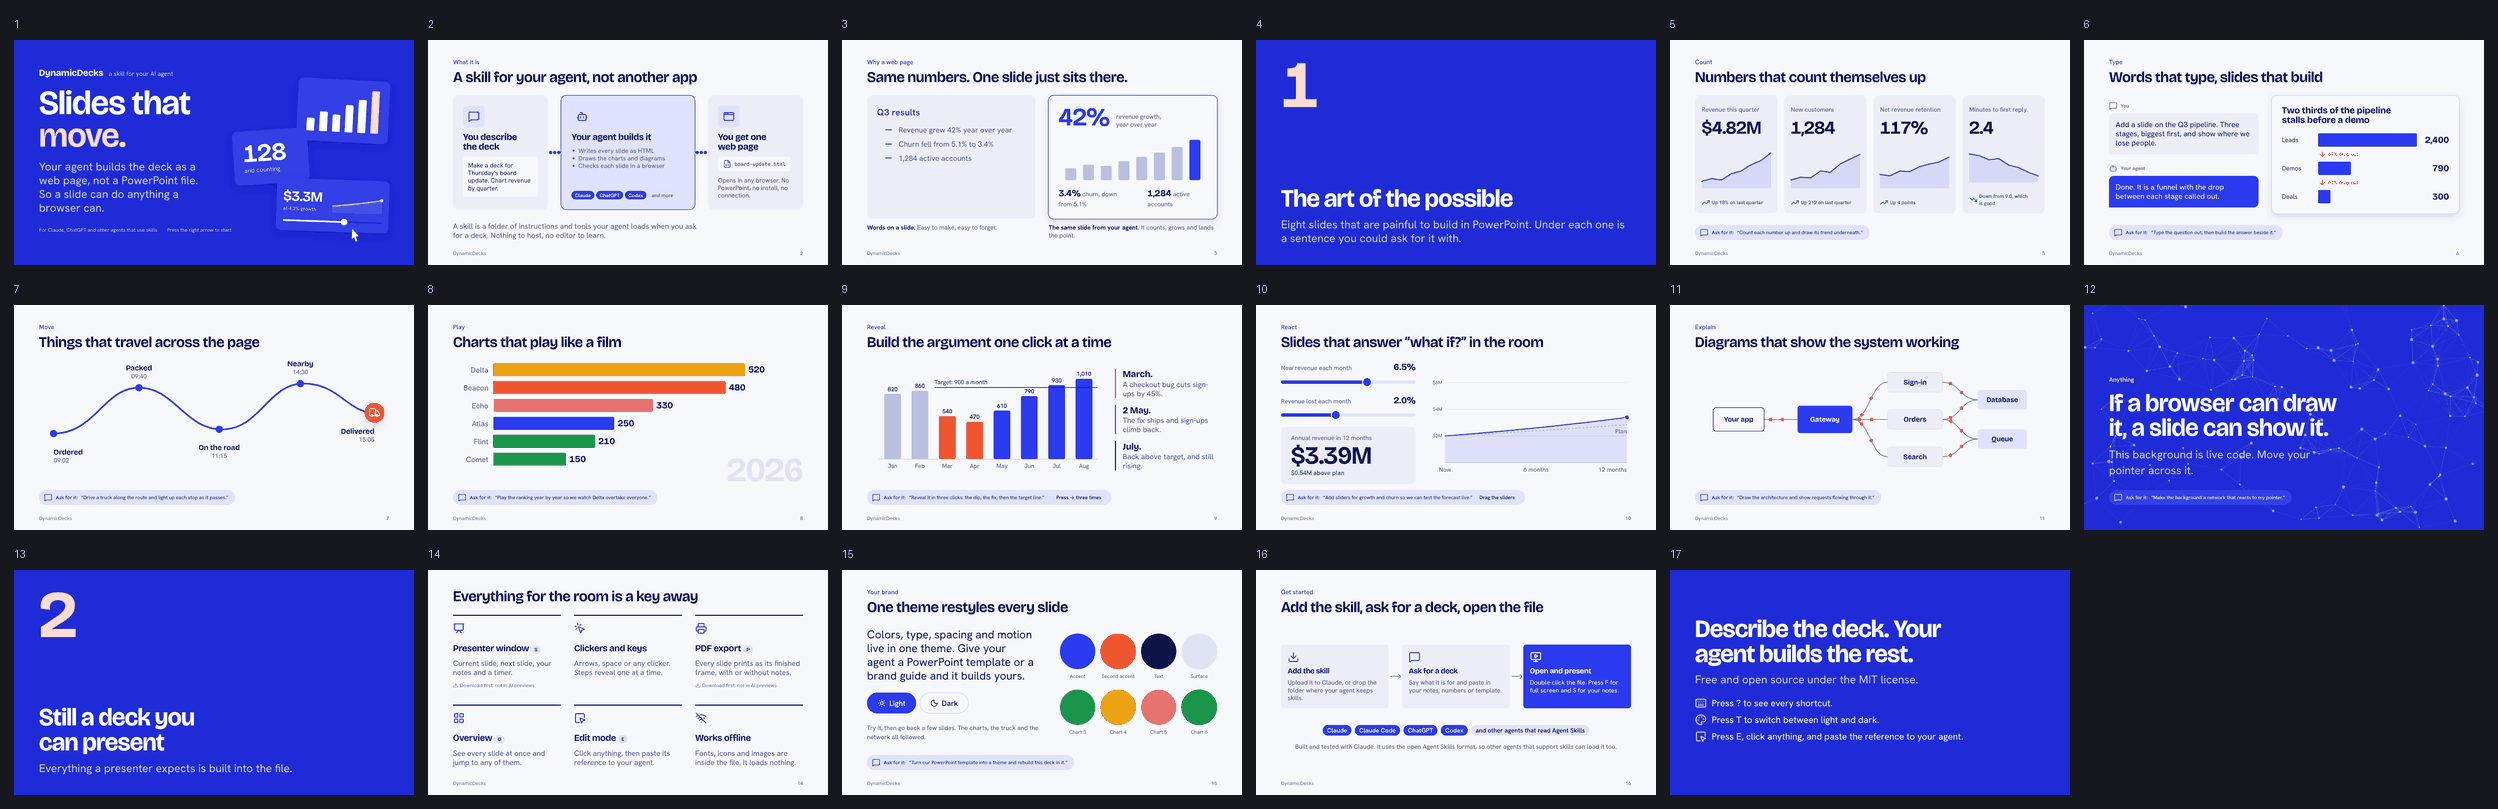
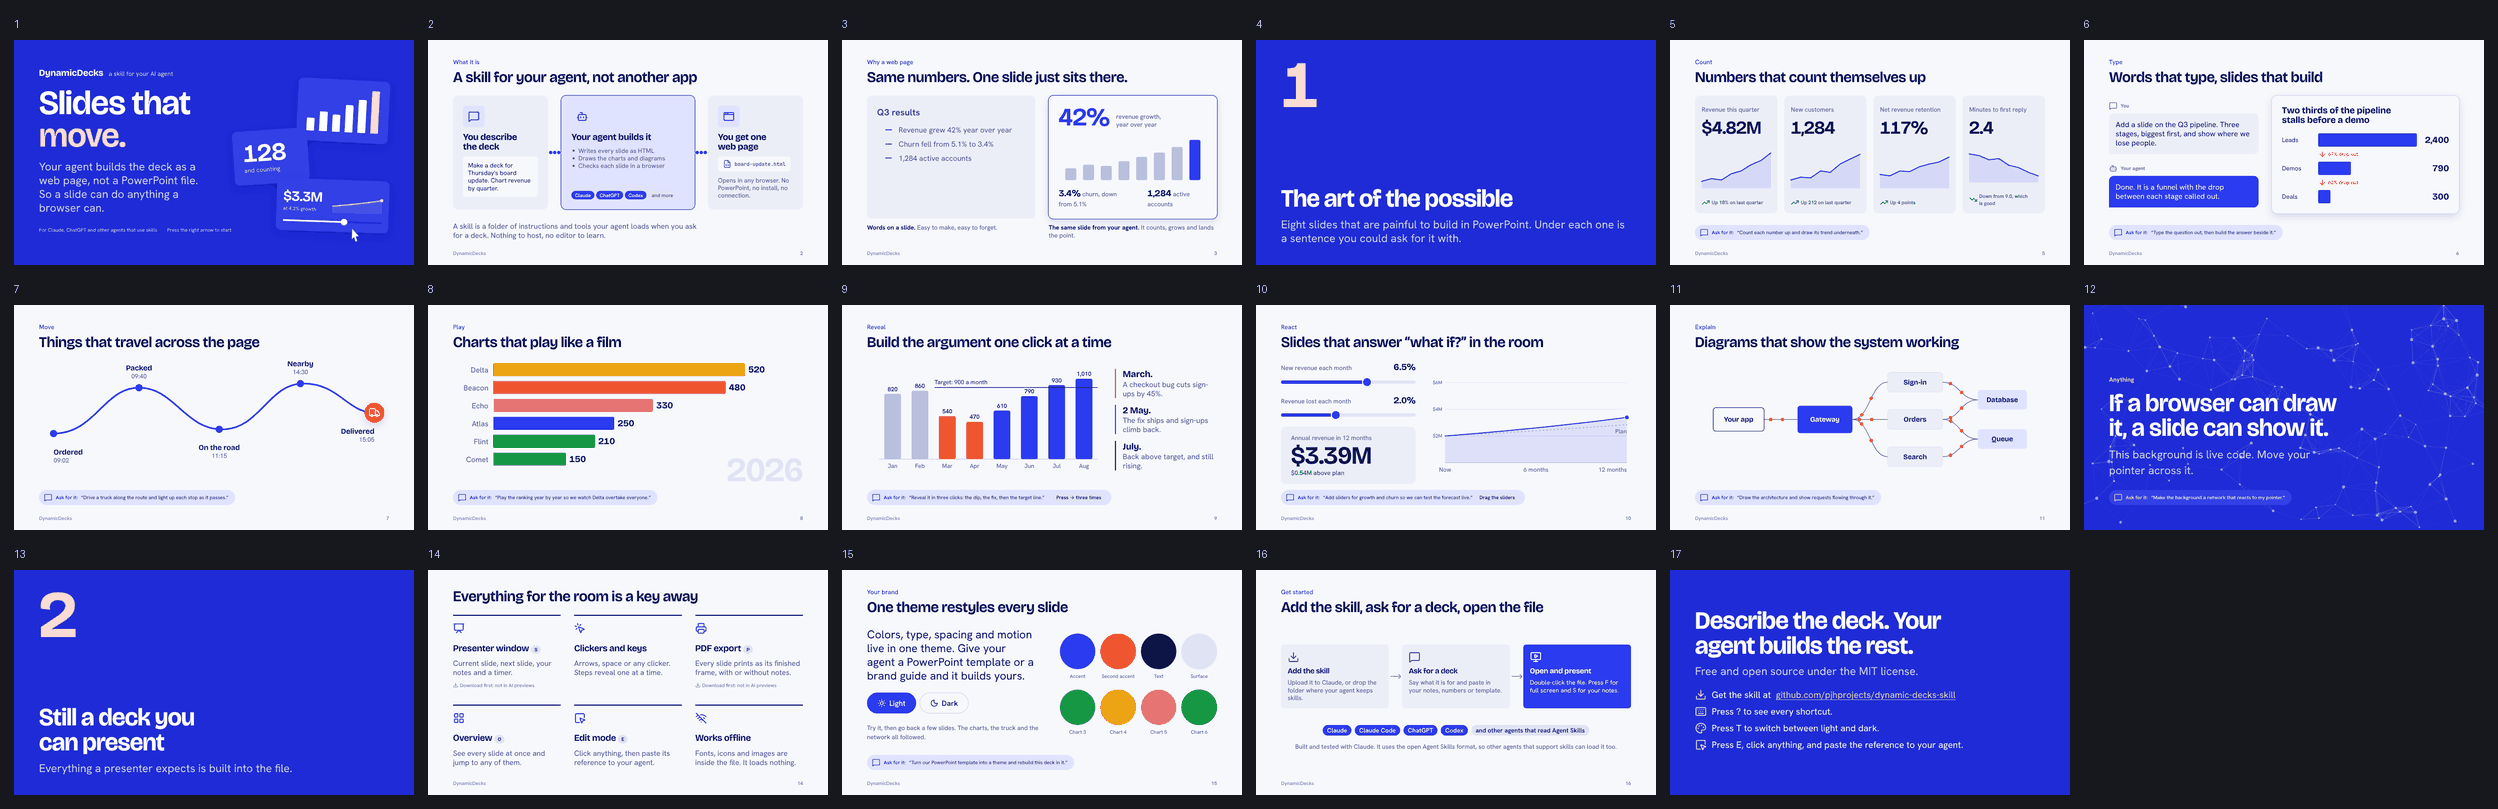
Open the showcase from the site's short address, and link the deck to the project
- index.html at the top level forwards the GitHub Pages front page to
  the showcase deck, keeping any slide number in the address.
- The showcase's closing slide links to the project page on GitHub, so
  someone who lands in the live deck can find the install steps.
- The README's live link uses the short address.
- Tests cover the forwarding page and the link; the slide overview
  picture is refreshed for the changed closing slide.

Claude-Session: https://claude.ai/code/session_01SMNYrQUCMtFjMcdZNsfFsk

Changed region(s): [[0.6557, 0.7417, 0.7806, 0.9271]]

diff --git a/examples/dynamic-decks-showcase.html b/examples/dynamic-decks-showcase.html
@@ -2413,6 +2413,7 @@ svg.diagram { display: block; overflow: visible; font-family: var(--font-body); 
   <p class="slide-subtitle">Free and open source under the MIT license.</p>
   <div class="slide-body">
     <ul class="next-steps" data-stagger>
+      <li data-anim="from-left"><svg class="icon" aria-hidden="true"><use href="#icon-download"/></svg> Get the skill at <a href="https://github.com/pjhprojects/dynamic-decks-skill" target="_blank" rel="noopener">github.com/pjhprojects/dynamic-decks-skill</a></li>
       <li data-anim="from-left"><svg class="icon" aria-hidden="true"><use href="#icon-keyboard"/></svg> Press ? to see every shortcut.</li>
       <li data-anim="from-left"><svg class="icon" aria-hidden="true"><use href="#icon-palette"/></svg> Press T to switch between light and dark.</li>
       <li data-anim="from-left"><svg class="icon" aria-hidden="true"><use href="#icon-square-mouse-pointer"/></svg> Press E, click anything, and paste the reference to your agent.</li>
@@ -2420,7 +2421,7 @@ svg.diagram { display: block; overflow: visible; font-family: var(--font-body); 
   </div>
   <aside class="notes">
     <p>The one thing to remember: you describe the presentation and the agent builds it as a web page, so it can do far more than a PowerPoint slide.</p>
-    <p>Everything in this deck is in the skill's showcase source, ready to be adapted.</p>
+    <p>Everything in this deck is in the skill's showcase source, ready to be adapted. The link on this slide goes to the project page, with the install steps.</p>
   </aside>
 </section>
 

diff --git a/dynamic-decks/template/showcase.src.html b/dynamic-decks/template/showcase.src.html
@@ -1145,6 +1145,7 @@
   <p class="slide-subtitle">Free and open source under the MIT license.</p>
   <div class="slide-body">
     <ul class="next-steps" data-stagger>
+      <li data-anim="from-left"><svg class="icon" aria-hidden="true"><use href="#icon-download"/></svg> Get the skill at <a href="https://github.com/pjhprojects/dynamic-decks-skill" target="_blank" rel="noopener">github.com/pjhprojects/dynamic-decks-skill</a></li>
       <li data-anim="from-left"><svg class="icon" aria-hidden="true"><use href="#icon-keyboard"/></svg> Press ? to see every shortcut.</li>
       <li data-anim="from-left"><svg class="icon" aria-hidden="true"><use href="#icon-palette"/></svg> Press T to switch between light and dark.</li>
       <li data-anim="from-left"><svg class="icon" aria-hidden="true"><use href="#icon-square-mouse-pointer"/></svg> Press E, click anything, and paste the reference to your agent.</li>
@@ -1152,7 +1153,7 @@
   </div>
   <aside class="notes">
     <p>The one thing to remember: you describe the presentation and the agent builds it as a web page, so it can do far more than a PowerPoint slide.</p>
-    <p>Everything in this deck is in the skill's showcase source, ready to be adapted.</p>
+    <p>Everything in this deck is in the skill's showcase source, ready to be adapted. The link on this slide goes to the project page, with the install steps.</p>
   </aside>
 </section>
 

diff --git a/index.html b/index.html
@@ -1,0 +1,14 @@
+<!doctype html>
+<html lang="en">
+<head>
+<meta charset="utf-8">
+<title>DynamicDecks</title>
+<!-- The front page of the project's GitHub Pages site. It only forwards to the
+     showcase deck, so the short address opens the live demo. -->
+<meta http-equiv="refresh" content="0; url=examples/dynamic-decks-showcase.html">
+<script>location.replace('examples/dynamic-decks-showcase.html' + location.hash);</script>
+</head>
+<body>
+<p>The live showcase is at <a href="examples/dynamic-decks-showcase.html">examples/dynamic-decks-showcase.html</a>.</p>
+</body>
+</html>

diff --git a/tests/test_checks.py b/tests/test_checks.py
@@ -72,5 +72,10 @@ t.ok("the showcase deck passes every check, with no warnings", proc.returncode =
 example = SKILL.parent / "examples" / "dynamic-decks-showcase.html"
 t.ok("the showcase in examples/ is up to date (run tools/package.py to refresh it)",
      example.is_file() and example.read_bytes() == show.read_bytes())
+front = (SKILL.parent / "index.html").read_text(encoding="utf-8")
+target = re.search(r'url=([^"]+)"', front)
+t.ok("the live site's front page forwards to the showcase in examples/",
+     target is not None and (SKILL.parent / target.group(1)).resolve() == example.resolve() and f"location.replace('{target.group(1)}'" in front, front[:200])
+t.ok("the showcase's closing slide links to the project page", 'href="https://github.com/pjhprojects/dynamic-decks-skill"' in show.read_text(encoding="utf-8"))
 t.ok("the license inside the skill matches the repository's", (SKILL / "LICENSE.txt").read_text() == (SKILL.parent / "LICENSE").read_text())
 t.done()

diff --git a/README.md b/README.md
@@ -6,7 +6,7 @@ Add it to Claude, ChatGPT, Codex or another agent that uses skills. Ask for a de
 
 ![The DynamicDecks showcase playing: a title that retypes itself, figures counting up, a request typing while a slide builds, a truck driving a route, a ranking re-sorting year by year, a chart revealed in three clicks, sliders redrawing a forecast, and a network following the pointer](docs/images/demo.gif)
 
-**[Open the live showcase](https://pjhprojects.github.io/dynamic-decks-skill/examples/dynamic-decks-showcase.html)** and press the right arrow.
+**[Open the live showcase](https://pjhprojects.github.io/dynamic-decks-skill/)** and press the right arrow.
 
 Every slide in that clip is live in the browser, with no video and no images. It is the showcase deck that ships with the skill. To see that it really is one self-contained file, download [`examples/dynamic-decks-showcase.html`](examples/dynamic-decks-showcase.html) and double-click it.
 
@@ -190,6 +190,7 @@ dynamic-decks/        the skill itself; this folder is what gets installed
   scripts/            build, check, render, chart, locate, add_theme, add_icons ...
   reference/          detail the agent reads when it needs it
 examples/             the showcase and the starter, built and ready to open
+index.html            front page of the live site; forwards to the showcase
 docs/images/          the pictures on this page
 tests/                browser and script tests
 tools/                package.py builds the skill; screenshots.py remakes the pictures
